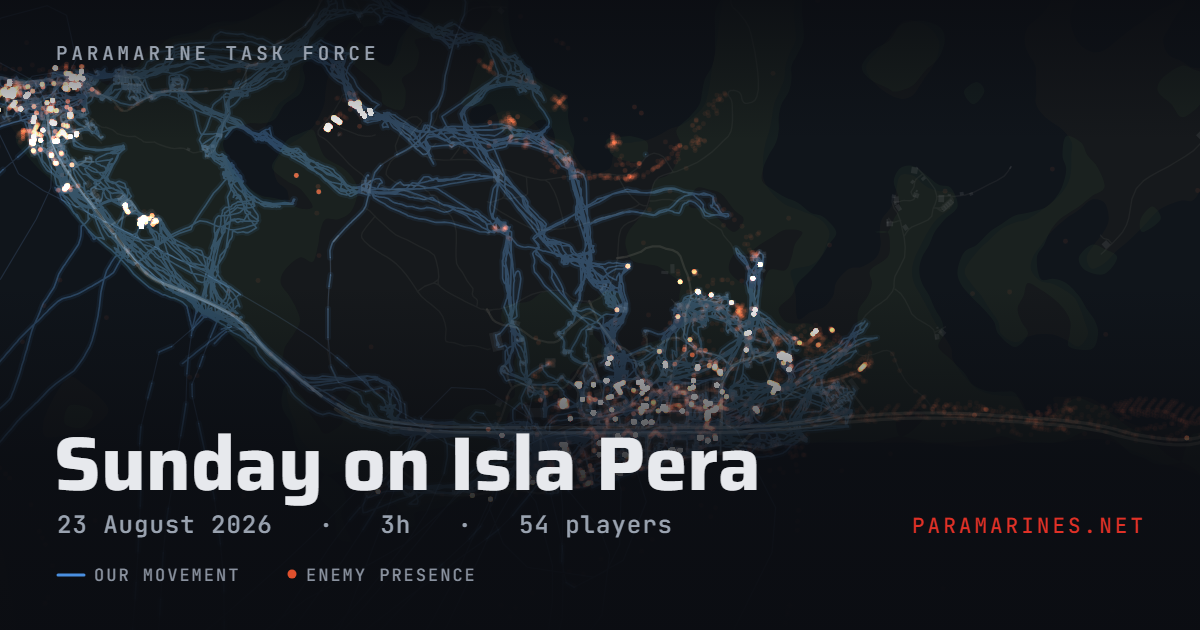
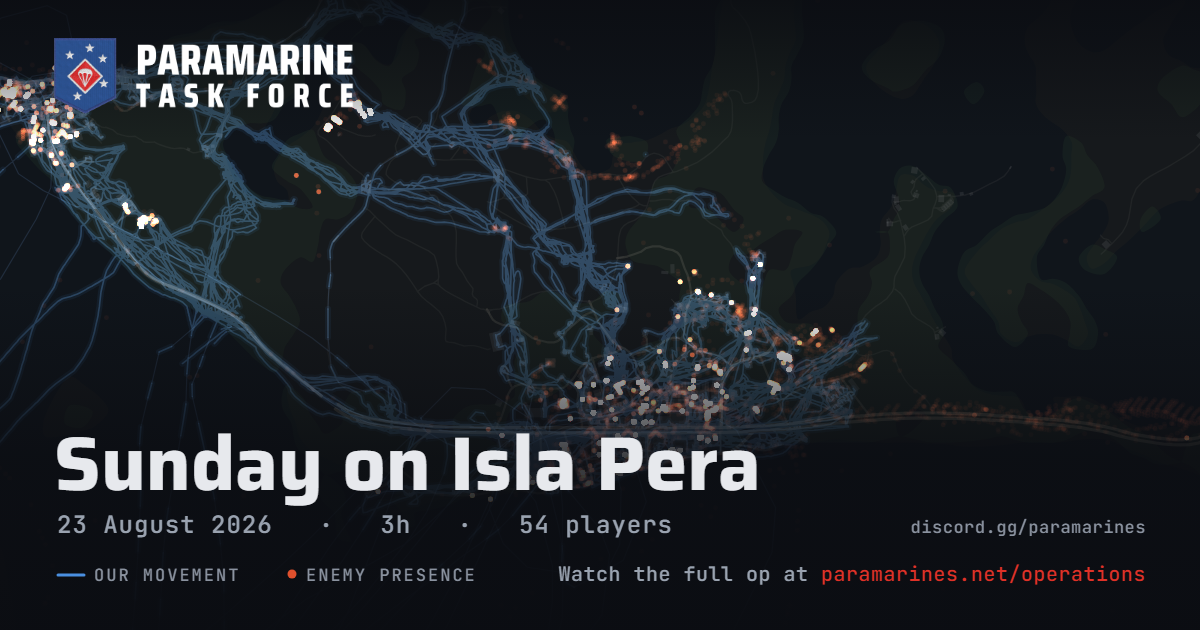
Put the mark and both addresses on the share assets
These images get saved and reposted somewhere we are not, so the lockup, the
site and the Discord are burned into the pixels rather than left to the post
around them. The horizontal lockup replaces the typed "PARAMARINE TASK FORCE"
on both assets, since it already carries the wordmark.

"Watch the full op at paramarines.net/operations" does not fit where the
domain used to sit. Measured at 1200px it is 588px wide, which overruns the
date/duration/count line by 114px and clears the legend by 82, so the
instruction takes the lower line and the Discord address moves up opposite
the meta. Shortening the meta would have been the wrong fix — that line grows
with the terrain name.

The GIF's strip cannot hold the sentence next to a clock and a Discord
address, so it carries the URL alone, centred Discord, clock left.

The lockup travels into the page as a data URI: the render page is written
into public/operations and a relative path would break if either moved. A
missing asset falls back to the typed wordmark rather than failing the render.

Changed region(s): [[0.0308, 0.0603, 0.3083, 0.181], [0.4625, 0.9048, 0.9558, 0.9349], [0.74, 0.8143, 0.9558, 0.8746]]

diff --git a/scripts/op-assets/page.js b/scripts/op-assets/page.js
@@ -13,6 +13,65 @@ const HOSTILE = "#e0502d";
 const MONO = '"JetBrains Mono",ui-monospace,monospace';
 const DISPLAY = "Saira,ui-sans-serif,system-ui,sans-serif";
 
+/*
+ * The card has room for the instruction; the GIF's bottom strip has to share
+ * with the clock and the Discord address, so it carries the URL alone.
+ */
+const CTA_LEAD = "Watch the full op at ";
+const CTA_URL = "paramarines.net/operations";
+const DISCORD = "discord.gg/paramarines";
+
+/** Right-aligned two-tone line ending at `right`. Returns its total width. */
+function drawCta(ctx, right, y, px, lead) {
+  ctx.letterSpacing = "0.5px";
+  ctx.font = "500 " + px + "px " + MONO;
+  const wLead = lead ? ctx.measureText(lead).width : 0;
+  const wUrl = ctx.measureText(CTA_URL).width;
+  const startX = right - (wLead + wUrl);
+  if (lead) {
+    ctx.fillStyle = INK_MUTED;
+    ctx.fillText(lead, startX, y);
+  }
+  ctx.fillStyle = ACCENT;
+  ctx.fillText(CTA_URL, startX + wLead, y);
+  return wLead + wUrl;
+}
+
+/**
+ * The horizontal lockup, handed in as a data URI by render.mjs.
+ *
+ * These images get saved and reposted somewhere we are not, so the mark and
+ * both addresses are burned into the pixels rather than left to the post
+ * around them.
+ */
+let BRAND = null;
+
+window.loadBrand = async (dataUri) => {
+  const img = new Image();
+  img.src = dataUri;
+  await img.decode();
+  BRAND = img;
+  return img.naturalWidth + "x" + img.naturalHeight;
+};
+
+/**
+ * Draw the lockup at a given width, returning the height it occupied. Falls
+ * back to the wordmark as text so a missing asset costs the mark, not the
+ * whole render.
+ */
+function drawBrand(ctx, x, y, width) {
+  if (!BRAND) {
+    ctx.letterSpacing = width > 200 ? "4px" : "2.5px";
+    ctx.font = "500 " + (width > 200 ? 19 : 10) + "px " + MONO;
+    ctx.fillStyle = INK_MUTED;
+    ctx.fillText("PARAMARINE TASK FORCE", x, y + (width > 200 ? 22 : 12));
+    return width > 200 ? 30 : 16;
+  }
+  const h = (BRAND.naturalHeight / BRAND.naturalWidth) * width;
+  ctx.drawImage(BRAND, x, y, width, h);
+  return h;
+}
+
 /**
  * Canvas text does not trigger a webfont fetch the way laid-out text does, so
  * every face has to be asked for explicitly before the first fillText.
@@ -57,10 +116,7 @@ window.renderCard = (T, segs, enemyHeat, crop, info, size) => {
   drawTracks(x, V, segs);
   drawScrims(x, W, H, 140, 344);
 
-  x.letterSpacing = "4px";
-  x.font = "500 19px " + MONO;
-  x.fillStyle = INK_MUTED;
-  x.fillText("PARAMARINE TASK FORCE", 56, 60);
+  drawBrand(x, 54, 38, 300);
 
   x.letterSpacing = "0px";
   x.font = "700 76px " + DISPLAY;
@@ -75,11 +131,19 @@ window.renderCard = (T, segs, enemyHeat, crop, info, size) => {
   x.fillStyle = INK_MUTED;
   x.fillText(meta, 57, 533);
 
-  x.letterSpacing = "3px";
-  x.font = "500 21px " + MONO;
-  x.fillStyle = ACCENT;
-  const domain = "PARAMARINES.NET";
-  x.fillText(domain, W - 54 - x.measureText(domain).width, 533);
+  /*
+   * The instruction goes on the lower line and the Discord address opposite
+   * the meta, not the other way round. Measured at 1200px: the full
+   * "Watch the full op at …" is 588px, which overruns the date/duration/count
+   * line by 114px but clears the legend by 82px. Shortening the title's meta
+   * would be the wrong fix — that line grows with the map name.
+   */
+  x.letterSpacing = "0.5px";
+  x.font = "500 17px " + MONO;
+  x.fillStyle = INK_FAINT;
+  x.fillText(DISCORD, W - 54 - x.measureText(DISCORD).width, 533);
+
+  drawCta(x, W - 54, 581, 20, CTA_LEAD);
 
   x.letterSpacing = "2px";
   x.font = "500 17px " + MONO;
@@ -199,16 +263,15 @@ window.renderGif = (T, tracks, perFrame, crop, info, cfg) => {
       ox.fill();
     }
 
-    drawScrims(ox, W, H, 54, 70);
+    // Taller top scrim than the card's proportionally: the lockup and the
+    // title stack here rather than sitting on one line.
+    drawScrims(ox, W, H, 96, 70);
 
-    ox.letterSpacing = "2.5px";
-    ox.font = "500 10px " + MONO;
-    ox.fillStyle = INK_FAINT;
-    ox.fillText("PARAMARINE TASK FORCE", 16, 22);
+    const brandH = drawBrand(ox, 15, 10, 150);
     ox.letterSpacing = "0px";
     ox.font = "700 25px " + DISPLAY;
     ox.fillStyle = INK;
-    ox.fillText(info.title, 15, 45);
+    ox.fillText(info.title, 15, 10 + brandH + 26);
 
     const bx0 = 15;
     const bx1 = W - 15;
@@ -229,10 +292,10 @@ window.renderGif = (T, tracks, perFrame, crop, info, cfg) => {
     ox.font = "500 11px " + MONO;
     ox.fillStyle = INK_MUTED;
     ox.fillText(clock(tNow), 15, H - 12);
-    ox.letterSpacing = "2px";
-    ox.fillStyle = ACCENT;
-    const domain = "PARAMARINES.NET";
-    ox.fillText(domain, W - 15 - ox.measureText(domain).width, H - 12);
+    ox.letterSpacing = "0.5px";
+    ox.fillStyle = INK_FAINT;
+    ox.fillText(DISCORD, (W - ox.measureText(DISCORD).width) / 2, H - 12);
+    drawCta(ox, W - 15, H - 12, 11, null);
 
     const data = ox.getImageData(0, 0, W, H).data;
     // One palette for the whole loop: the terrain never changes, and a global
